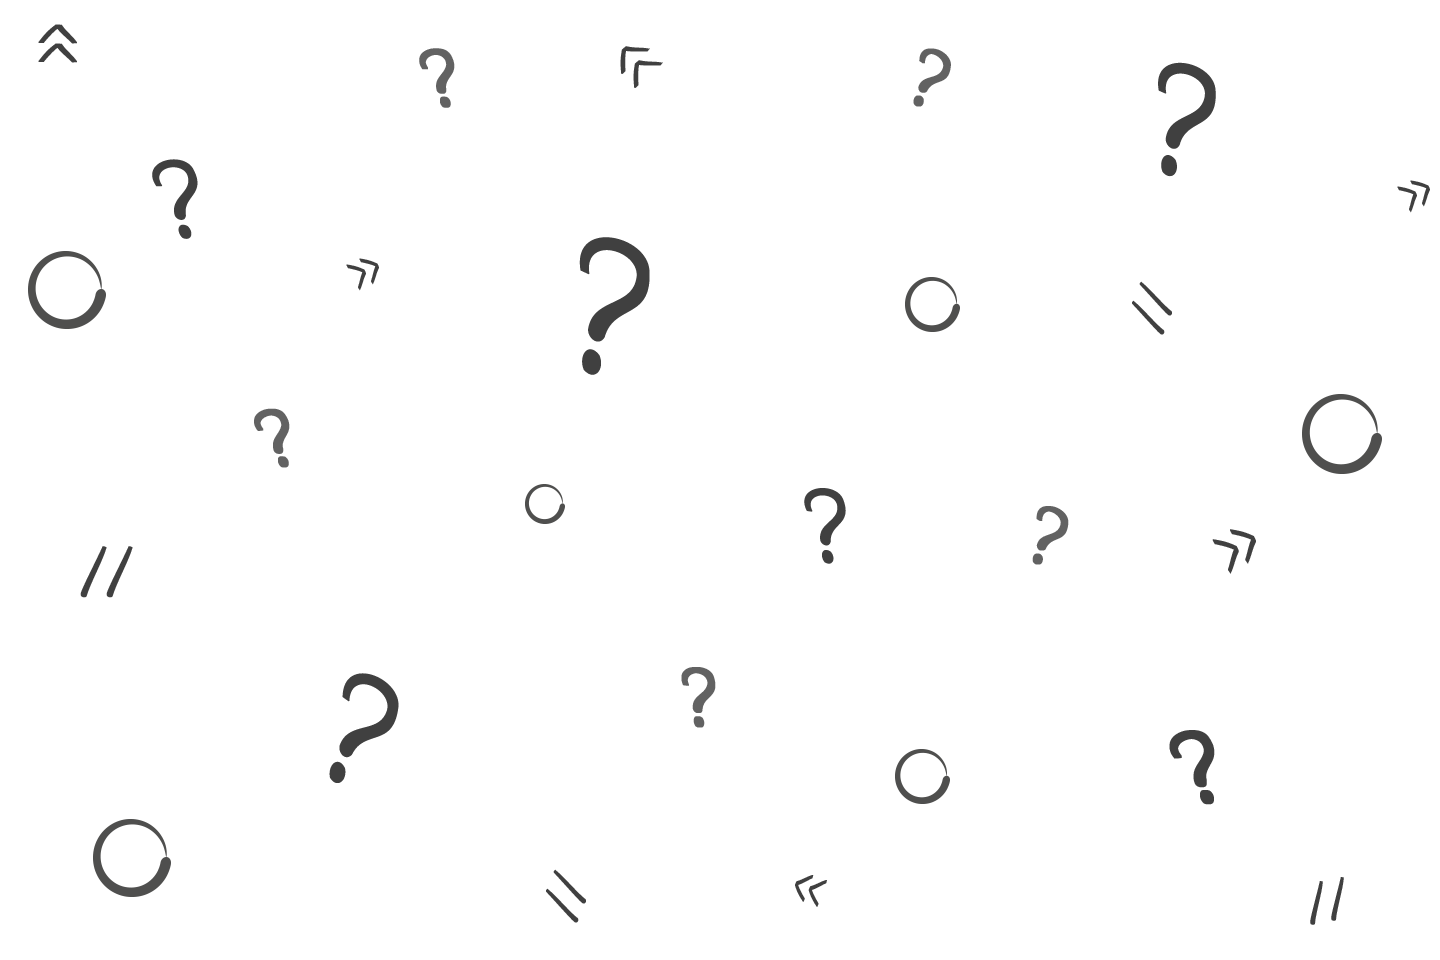
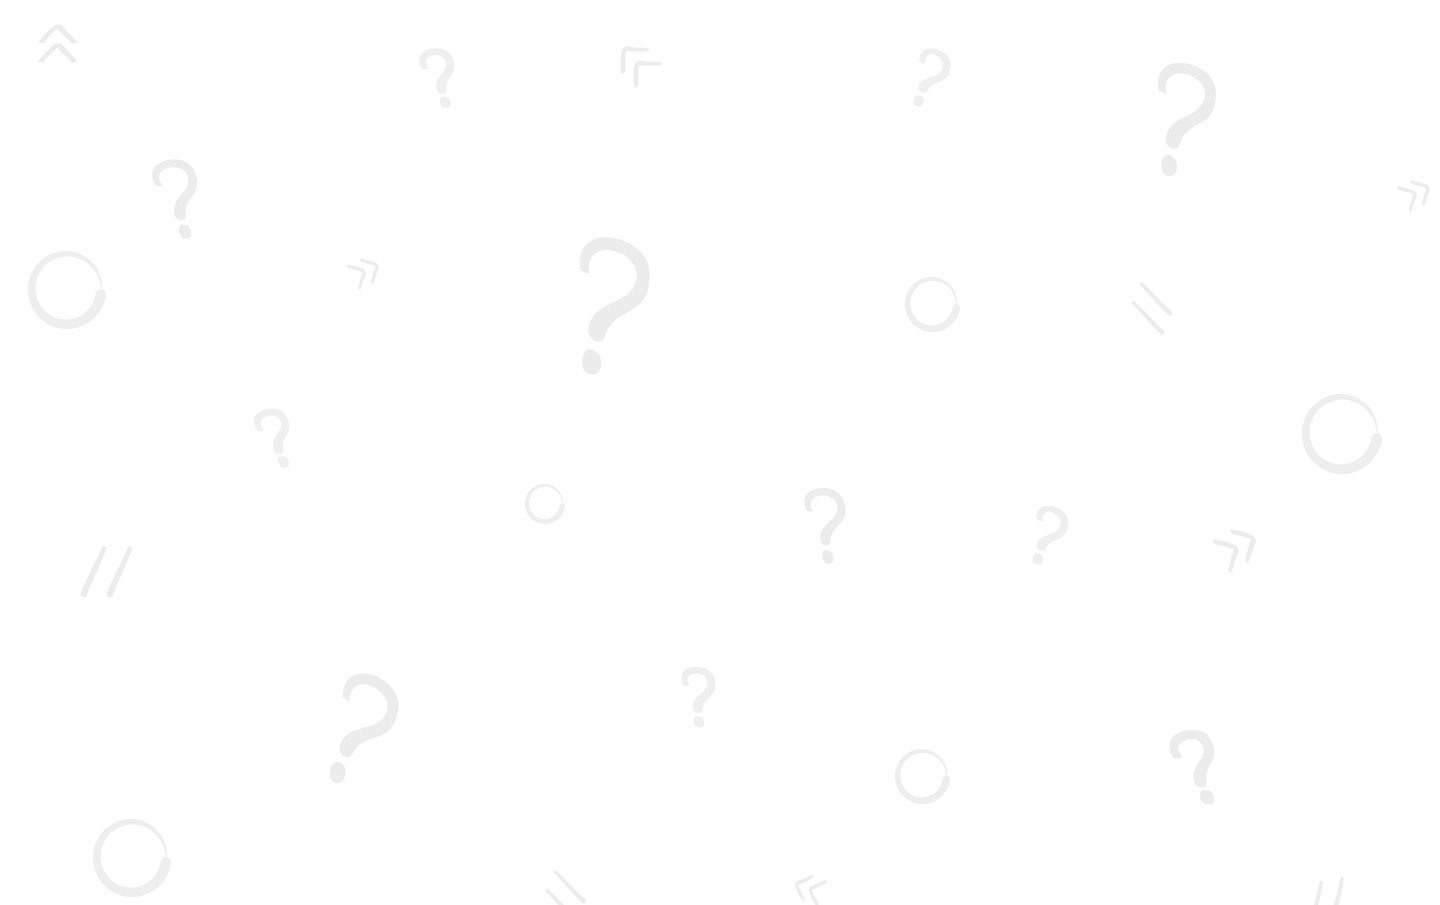
chench background header and section

diff --git a/src/styles/style.css b/src/styles/style.css
@@ -148,7 +148,6 @@ a{
    bottom: 0;
    background-image: url(../images/background.png);
    background-repeat: no-repeat;
-   opacity: 0.06;
 }
 
 .header-img {
@@ -328,7 +327,6 @@ a{
    left: 0;
    background-image:url(../images/background.png);
    background-repeat:no-repeat;
-   opacity: 0.06;
 }
 
 .flex-block {
